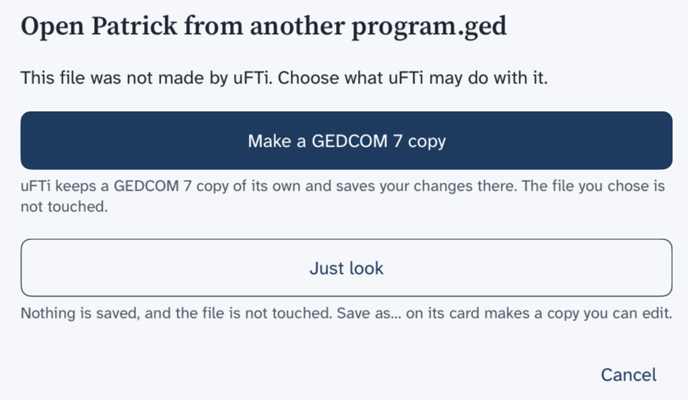
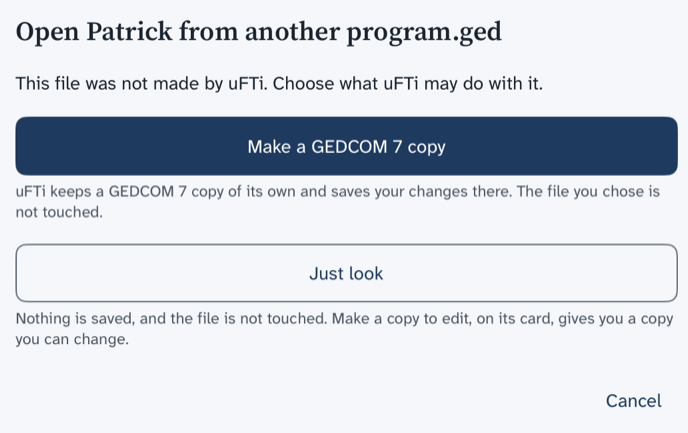
Walk the fixed Apple faults again and take out the pages' work-rounds
The iPhone, iPad and Mac were walked again on 17 November on a newer
build from the app's development line. The Photos buttons lose their
work-rounds for the folder and the Mac's strip; Open a family tree file
describes Just looking, Make a copy to edit and the (2) on a second
card of the same name; Keep it safe says a message gives where the copy
went; Remove a tree offers the sample again on the iPhone; Find help
and the version names the two new buttons on About. The iPhone and
iPad pictures of the Remove box and of the page for another program's
file were taken again. The walk reports gain a section each.

Refs #197

diff --git a/authoring/walks/alpha-2-iphone.md b/authoring/walks/alpha-2-iphone.md
@@ -86,6 +86,27 @@ The pages were written from this report (DEC-238). The iPhone now shares the And
 ## 5. Next
 
 - Walk *Use an existing note* on the iPhone. Taking a photo needs a device with a camera.
-- When row 34 is mended, walk the folder button again and take away the page's line about looking for the picture.
+- When row 40 is mended, walk the chain button again after adding a picture from the folder.
 - On 12 November, at the maintainer's request, the faults (rows 21, 22, 24, 26, 27 and 28), row 30, the New workspace box and the sample's missing pen name were sent to the app team, with the Mac's and the iPad's.
 - On 14 November, at the maintainer's request, rows 34 and 35 were sent to the app team as two faults, and the empty frame in row 36 as a third.
+
+## 6. Walked again (17 November)
+
+The app team mended most of the faults above. On 17 November the mended places were walked again on a newer build from the app's development line, a Release build with the DevFlow agent (as DEC-221 allowed on Windows), from a fresh install, in Oxford and slate, Light.
+
+| # | Where | What a reader sees now | Then |
+|---|---|---|---|
+| 37 | The camera with no camera (row 35) | A box says "The camera is not available on this device." with **OK**. There is no question about the camera, and the app stays open. | Mended |
+| 38 | A picture from the folder (row 34) | After **OK** in **Describe this image**, the picture shows under the buttons at once, "Saved" shows for a moment, and the fourth button appears. | Mended |
+| 39 | The chain's pictures (row 36) | All three of the sample's pictures show, the museum's too. | Mended |
+| 40 | The chain, once the sample holds a picture from the folder | The app closed, twice. The other way round, the chain first and then the folder, the folder said "The picture could not be added. Please try again." The two kinds of picture are kept in folders whose names differ only by a capital letter, which this simulator's disk does not tell apart. A reader's iPhone may not see this; a Mac may. | A fault |
+| 41 | **Save as…** (row 22) | "Saved a copy as Brontë family of Haworth.gdz in On My iPhone." at the foot of the screen, gone after a few seconds. | Mended |
+| 42 | Opening the saved copy (rows 22 and 24) | The box names it "Brontë family of Haworth (2)" and says "Pictures linked on the web: 3", with nothing about family tree files. The card shows (2), and **Show details** gives "Made by uFTi 0.2.0", the file and "Saved 17 November 2026". | Mended |
+| 43 | **Just look** | Under **Just look** the page now says "Nothing is saved, and the file is not touched. Make a copy to edit, on its card, gives you a copy you can change." Home says "Open just to look at: nothing in this tree can be changed. To change it, use Make a copy to edit on its card under Workspaces.", and **+** is gone. The card is marked **Just looking** and has **Make a copy to edit**, which opens a copy that can be changed at once. The file chosen kept its date. | New |
+| 44 | The path and the New workspace box (rows 26 and 21) | On **More** the path ends in **More**. The **New workspace** box has "My family tree" selected, so typing replaces it. | Mended |
+| 45 | Removing the only tree | The **Remove workspace** box now names the file. Afterwards **Home** and **Workspaces** offer **Open the sample tree**, which opens the sample again. | New |
+| 46 | **About uFTi** | Two new buttons, **Privacy policy** and **Software components and licences**; they were not chosen. About still says "Camera: Available" on a simulator with no camera. | New; the camera line is for the app team |
+
+**Not walked again.** Leaving a form by the lit tab (row 27) and the chip after a delete (row 28). The app team reports both mended; walk them at the next pass.
+
+**The pages.** *The Photos buttons* loses its line about looking for the picture; the picture now shows under the buttons on every device. *Open a family tree file* describes **Just looking** and **Make a copy to edit**, and the (2) on a second card of the same name. *Keep it safe* gives the message after **Save**. *Remove a tree* adds **Open the sample tree**, and *Find help and the version* the two new buttons. The pictures of the **Remove workspace** box and of the page for another program's file were taken again.

diff --git a/authoring/walks/alpha-2-mac.md b/authoring/walks/alpha-2-mac.md
@@ -77,9 +77,27 @@ The pages for the AppKit Mac, written before the walk, were removed: no manual u
 
 ## 5. Next
 
-- Check rows 23 and 24 on the iPhone and iPad: their *Open a family tree file* pages still say that **Save as…** on the card makes a copy you can edit.
-- Walk the camera on the Mac. It needs the maintainer's word, because answering its question changes the Mac's privacy settings. On the iPhone simulator, which has no camera, choosing **Allow** closed the app (the iPhone report, row 35); a Mac without a camera may do the same, so walk it on a Mac with one.
+- Take again the pictures of the **Remove workspace** box and of the page for another program's file, which has new words under **Just look**.
+- Walk the camera on the Mac. It needs the maintainer's word, because answering its question changes the Mac's privacy settings. On the iPhone simulator, which has no camera, the button now says "The camera is not available on this device." (the iPhone report, row 37); a Mac without a camera should do the same. Walk the camera on a Mac with one.
 - On 12 November, at the maintainer's request, rows 22 to 24 were sent to the app team: rows 22 and 23 as a fault, row 24 as a request.
 - On 12 November, at the maintainer's request, row 21 was sent to the app team as a fault, and row 20 was added to the iPad's report of the chain button closing the app.
 - Check the **Currer** search on the Android phone, in the sample tree that the app opens with. If it finds nothing there, the Android phone needs another example too, and a new picture.
 - On 12 November, at the maintainer's request, rows 5, 10, 12, 13 and 17, the path word "Submitter", the "Tap to manage sources" names and the sample's missing pen name were sent to the app team, with the iPhone's and the iPad's.
+
+## 6. Walked again (17 November)
+
+On 17 November the mended places were walked again on a newer build from the app's development line, a Release build with the DevFlow agent, in the walk's own trees.
+
+| # | Where | What a reader sees now | Then |
+|---|---|---|---|
+| 25 | **Just look** (rows 22 to 24) | The card is marked **Just looking** and has **Make a copy to edit**, which opens a copy that can be changed at once. Home says "Open just to look at: nothing in this tree can be changed. To change it, use Make a copy to edit on its card under Workspaces.", and **+** is gone. A person's page has no **Edit** and no Photos buttons, but still offers **Add parents to**, **Add a new family** and the **Sources** chips. **Add a new family** opens **Add a record** and then a family form; only **Save** is refused, with "'uFTi walk look 551 (2)' is open just to look at, so nothing in it can be changed. Make a copy to edit it." | Mended, but the forms are still offered: a fault |
+| 26 | **Cancel** on a form (row 17) | **Cancel** asks first, with **Keep editing** and **Discard**. The case of row 17, after removing the tree in use, was not repeated. | Mended |
+| 27 | The picture on the page (row 21) | The strip is the height of the pictures, and **Edit** is just under it. **Link existing media** shows all three of the sample's pictures, the museum's too. | Mended |
+| 28 | The side list, and the tree maker's form | With a research note's form opened from **+**, **Home** stays lit. The tree maker's form from **+** is named **Add a name** on the sheet and **Name** on the path, and **More** stays lit. | Mended |
+| 29 | Lists after a save from **+** | A research note saved from **+** shows in **Research questions and notes** at once. | Mended |
+| 30 | Words | The **Sources** chips are read as "0 sources. Manage sources.". **About uFTi** has two new buttons, **Privacy policy** and **Software components and licences**; they were not chosen. | Mended; new |
+| 31 | Two trees of the same name | The second card shows (2). | Mended |
+
+**Not taken again.** The pictures of the **Remove workspace** box and of the page for another program's file: the Mac's screen locked before they were taken.
+
+**The pages.** *The Photos buttons* loses its line about the thin strip. *Open a family tree file* describes **Just looking**, **Make a copy to edit** and the (2) on a second card of the same name.

diff --git a/authoring/walks/alpha-2-ipad.md b/authoring/walks/alpha-2-ipad.md
@@ -67,8 +67,24 @@ The pages were written from this report (DEC-238). The tour is new for rows 1, 2
 
 ## 5. Next
 
+- When the iPhone report's row 40 is mended, walk the chain button again and take away the page's line about the app closing.
 - Check row 20.
 - Watch for the end of row 25 again: a copy added with **Add from file…** whose card is marked **Active** while another tree stays in use. Two tries on 14 November did not repeat it.
 
 On 12 November, at the maintainer's request, rows 14, 18, 19 and 21 to 24 were sent to the app team as five faults and one request, ahead of the one list that DEC-214 plans for the other legs.
 - The faults (rows 8 and 14) go to the app team once, with the other legs' (DEC-214).
+
+## 6. Walked again (17 November)
+
+On 17 November the mended places were walked again on a newer build from the app's development line, a Release build with the DevFlow agent, from a fresh install, on its side, in Oxford and slate, Light.
+
+| # | Where | What a reader sees now | Then |
+|---|---|---|---|
+| 26 | The folder's first choice (rows 14 and 18) | Choosing a picture once opens **Describe this image**. After **OK** the picture shows under the buttons, "Saved" shows for a moment, and the fourth button appears. | Mended |
+| 27 | The chain button (row 19) | Once the sample held that picture, the chain button closed the app again, as on the iPhone (the iPhone report, row 40). | A fault, still |
+| 28 | **Save as…** (row 21) | The format box offers **Everything (.gdz, recommended)** and **Family tree only (.ged)**. With a file of that name already there, the Files screen asked to replace it; **Keep Both** saved a second. The message: "Saved a copy as Brontë family of Haworth 2.gdz in On My iPad.", gone after a few seconds. | Mended |
+| 29 | **Remove workspace**, and the page for another program's file | The box now names the file. Under **Just look** the page says "Nothing is saved, and the file is not touched. Make a copy to edit, on its card, gives you a copy you can change." | New words; pictures taken again |
+
+**Not walked again on the iPad.** Opening the saved copy (row 22), two trees of the same name (row 23) and the tree's sheet (row 8). Rows 22 and 23 were seen mended on the iPhone and the Mac.
+
+**The pages.** The lines that worked round rows 14 and 18 are gone from *The Photos buttons* and *Open a family tree file*: **Add from file…** opened the file at the first choice both times. Its line about the chain button closing the app stays, because of row 27.

diff --git a/authoring/terminology.md b/authoring/terminology.md
@@ -370,6 +370,11 @@ Read from the iPhone and iPad apps on 11 November 2026, in the Alpha-2 walk ([`c
 |---|---|---|---|
 | `ui-make-a-gedcom-7-copy` | Make a GEDCOM 7 copy | The choice, for a file another program made, that keeps a copy of its own in GEDCOM 7 and saves changes there. | none |
 | `ui-just-look` | Just look | The choice, for a file another program made, that opens it to look at and saves nothing. | none |
+| `ui-just-looking` | Just looking | The mark on the card of a tree opened with Just look. | none |
+| `ui-make-a-copy-to-edit` | Make a copy to edit | The button on a Just looking card that opens a copy you can change. | none |
+| `ui-open-the-sample-tree` | Open the sample tree | The button on an empty Home and Workspaces that opens the Brontë sample again. | none |
+| `ui-privacy-policy` | Privacy policy | The button on About uFTi for the privacy policy. | none |
+| `ui-software-components-and-licences` | Software components and licences | The button on About uFTi for the software that uFTi is built with. | none |
 
 ### 2.12 Mac Alpha-2 additions
 
